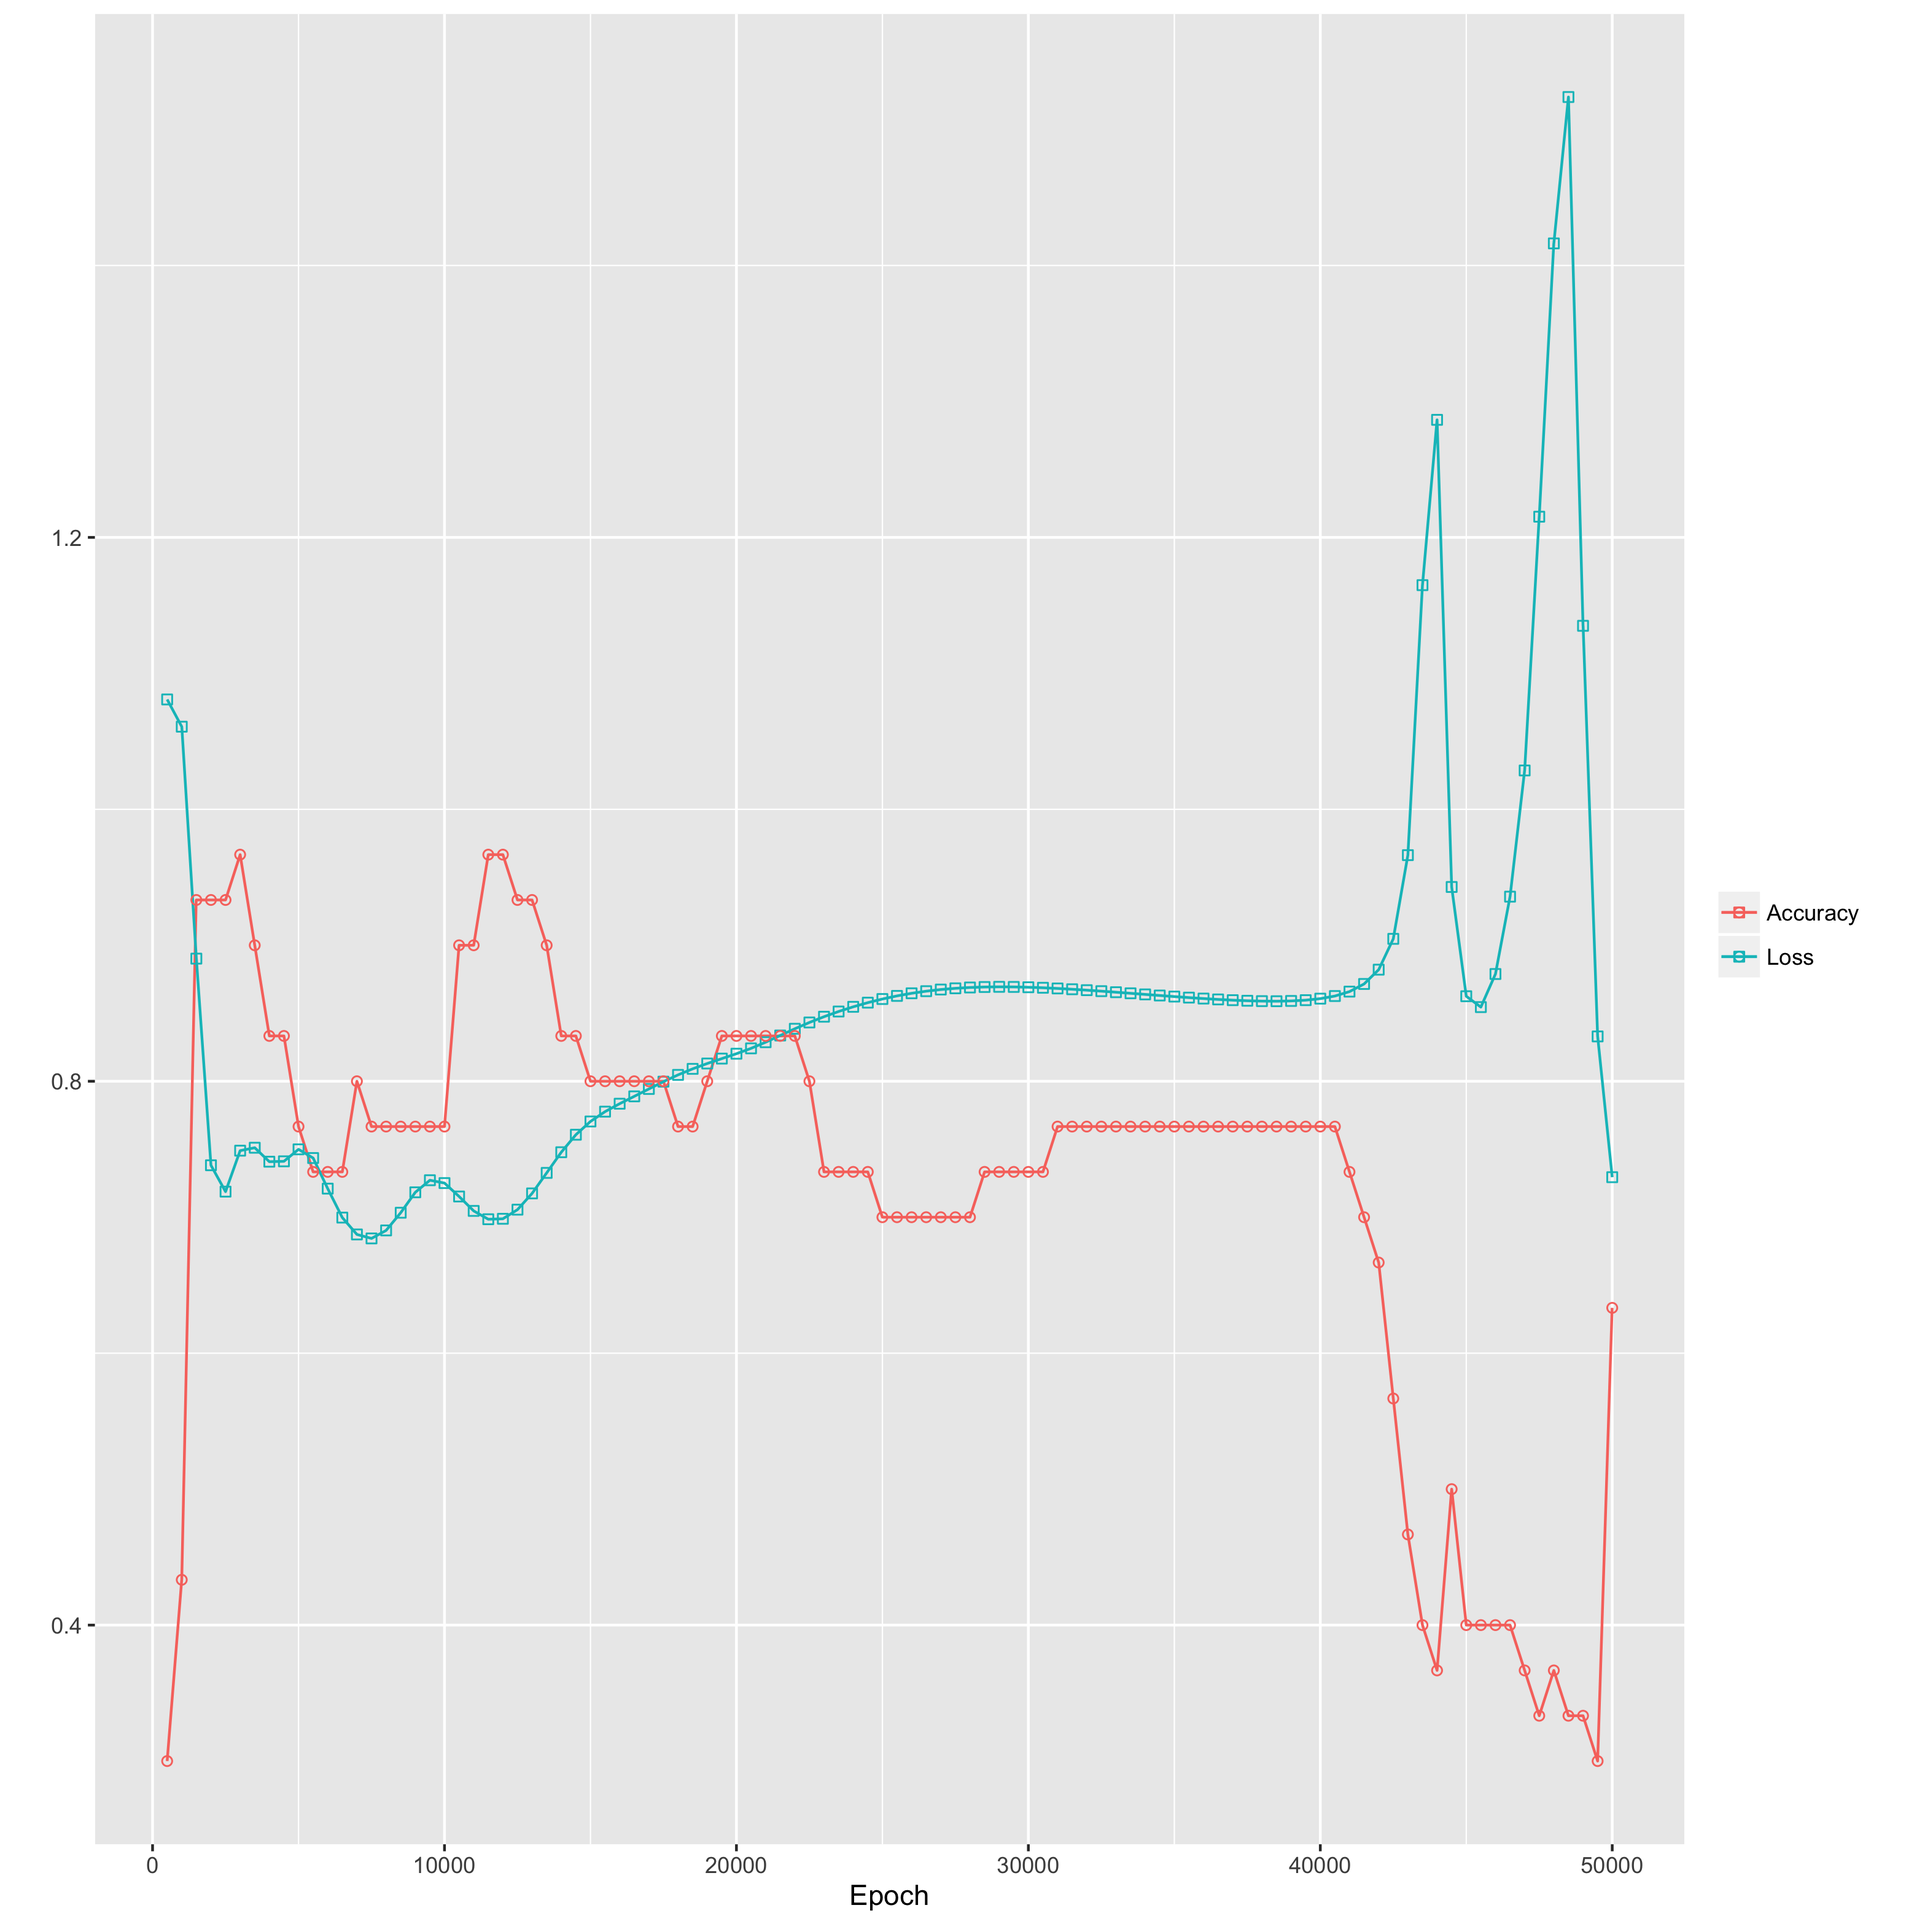
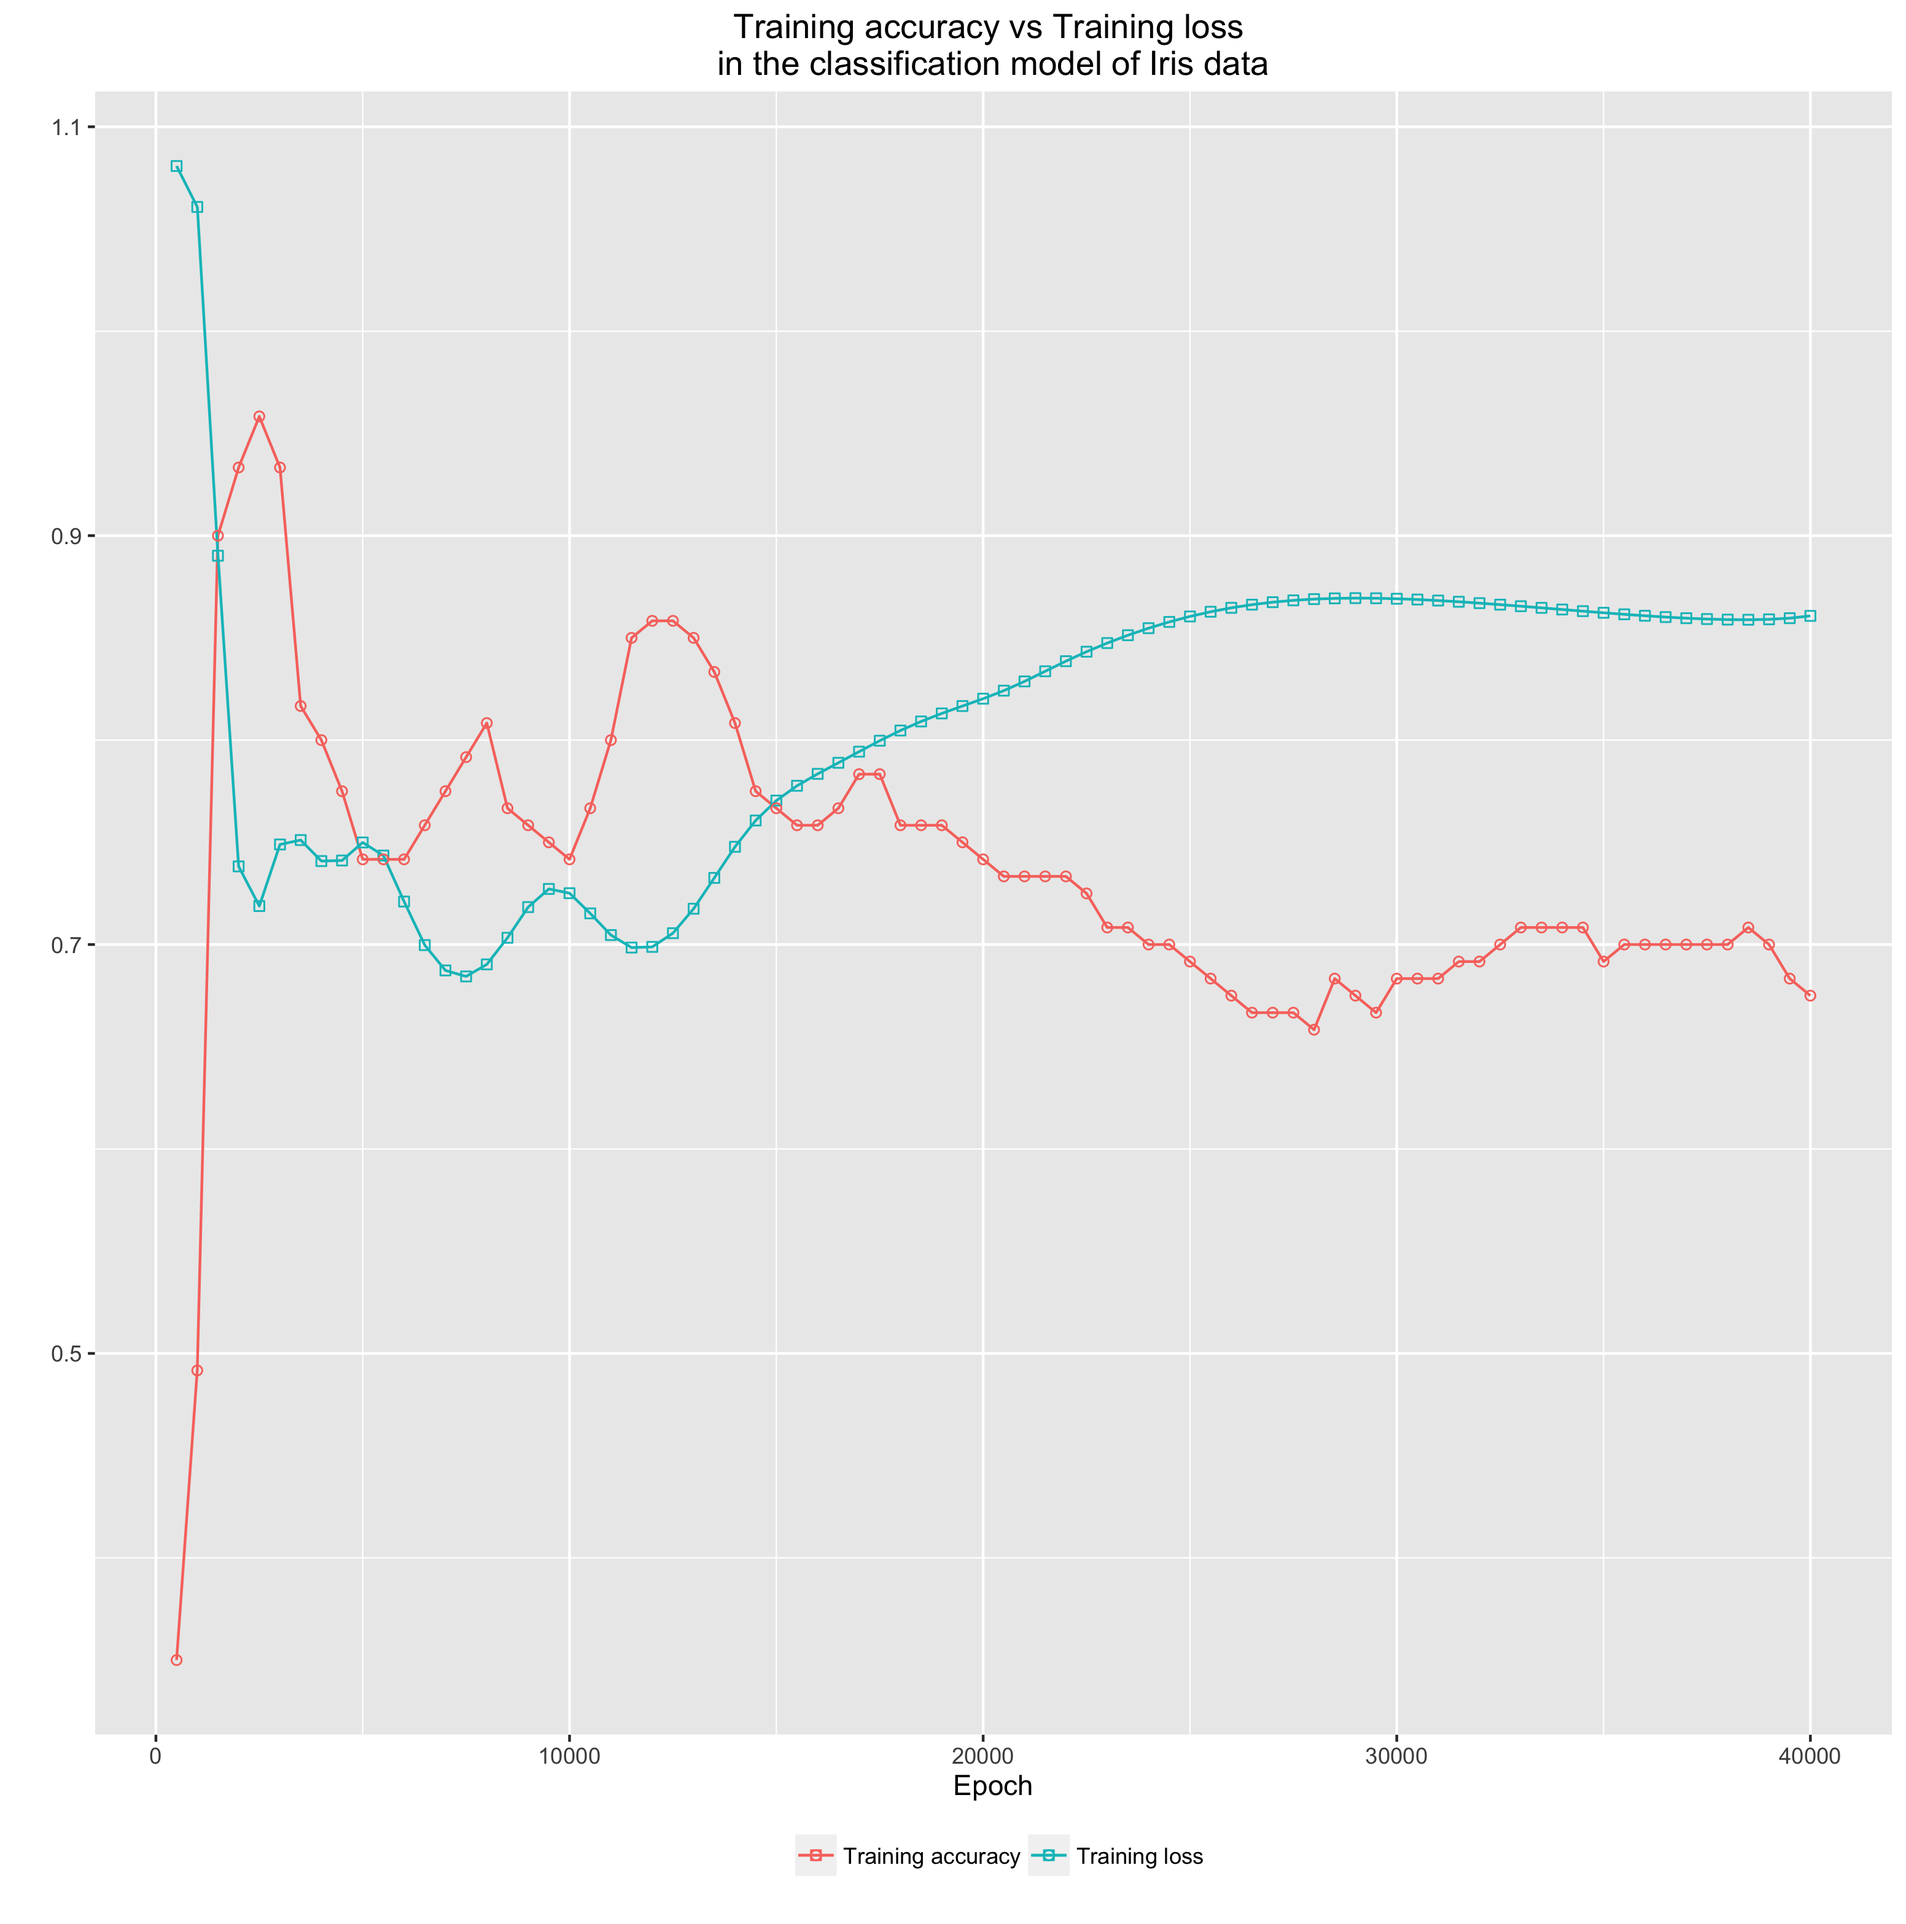
update part 3 of prelude to neural net

diff --git a/_posts/2017-01-23-softmax-and-cross-entropy.md b/_posts/2017-01-23-softmax-and-cross-entropy.md
@@ -347,5 +347,33 @@ Figure 4 is a model representation of the network and Figure 5 is a signal flow 
 {% include image.html url="/images/iris_signal_flow_model.png" description="Figure 5: A description of signal flow of the neural network" %}
 
 ###### 4.3. Results
+As said, what we can expect from this model is the posterior probability. An example of the model output is that suppose we have a particular observation belongs to 1st class (e.g., setosa), the encoded output of that observation in this experiment would be $$Y = \begin{bmatrix} 1 \\ 0 \\ 0 \end{bmatrix}$$. Corresponding with that desired output $Y$, the expected prediction of the classification model would be like $$\hat{Y} = \begin{bmatrix} 0.6609379 \\ 0.1009062 \\ 0.2381559 \end{bmatrix}$$, where 0.6609379 represents the probability that this particular observation would be setosa is 66.09%.
 
-{% include image.html url="/images/iris_accuracy_vs_loss.png" description="Figure 6: loss vs accuracy in the Iris flower classification model" %}
+Figure 6 and 7 are the visual reports of the experiment. In this experiment, we divided the data into 80% for training and 20% for testing. Note that:
+
+- __The learning converges early__. Both Figure 7 demonstrates that both the training and testing accuracy reach their optimal points somewhere before 5000 epochs. When analysing experiment procedures, we can conclude that this early convergence can be achieved due to:
+
+  - __Optimal initialisation of weights__ we initialised weights with mean equals 0 and standard devidation equals $1/\sqrt[2]{n_w}$ where $n_w$ is the number of connecting weights to the neuron. By initialising the weights by this method, we have better chance in avoiding the learning saturation of the model (Haykin, 2009).
+  - __Maximisation of learning__ for every epoch, we shuffled the training data, which makes the learning process very healthy (Haykin, 2009).
+
+- __Overfitting is controlled very well__ Thanks to _L2 regularisation_, it seems that overfitting is avoided in the experiment. Figure 7 shows that the accuracy of the testing set is essentially better than the accuracy of the training set. Besides, we can also observe that the accuracy of the testing set slightly correlates with the accuracy of the training set in this experiment.
+
+{% include image.html url="/images/iris_accuracy_vs_loss.png" description="Figure 6: Accuracy vs loss in the Iris flower classification model" %}
+
+{% include image.html url="/images/iris_testing_vs_training.png" description="Figure 7: Training accuracy vs Testing accuracy in the Iris flower classification model" %}
+
+The code snippet of the experiment implementation in R.
+
+<script src="https://gist.github.com/newbiettn/561f01c6e5cf5e958c1af0c92e2ef58c.js"></script>
+
+##### References
+
+Anderson, E. (1935, September). The Species Problem in Iris. Annals of the Missouri Botanical Garden, 23(3), 457–469. doi:10.2307/2394164
+
+Bishop, C. M. (2006). Pattern Recognition and Machine Learning. Berlin, Germany: Springer.
+
+Fisher, R. A. (1936, September). The use of multiple measurements in taxonomic problems. Annals of Eugenics, 7(2), 179–188. doi:10.1111/j.1469-1809. 1936.tb02137.x
+
+Haykin, S. (2009). Neural Networks and Learning Machines (3rd ed.). Upper Saddle River, NJ, USA: Pearson.
+
+Shannon, C. E. (2001, July). A Mathematical Theory of Communication. Bell Labs Technical Journal, 27(4), 623–656. doi:10.1002/j.1538-7305.1948. tb01338.x
